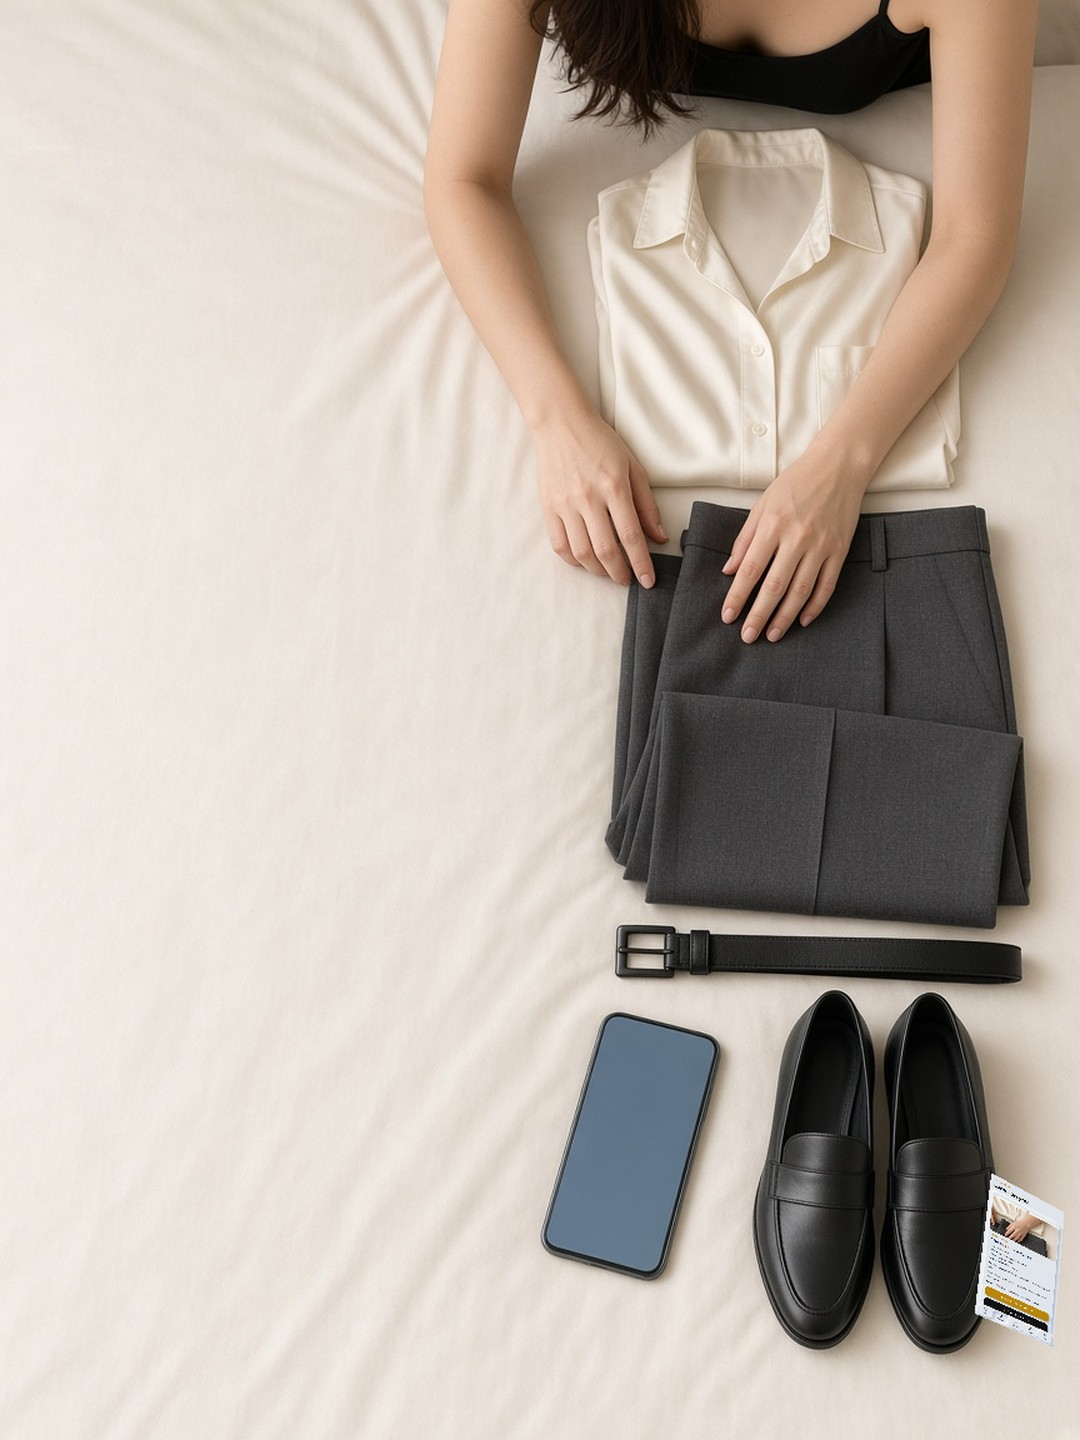
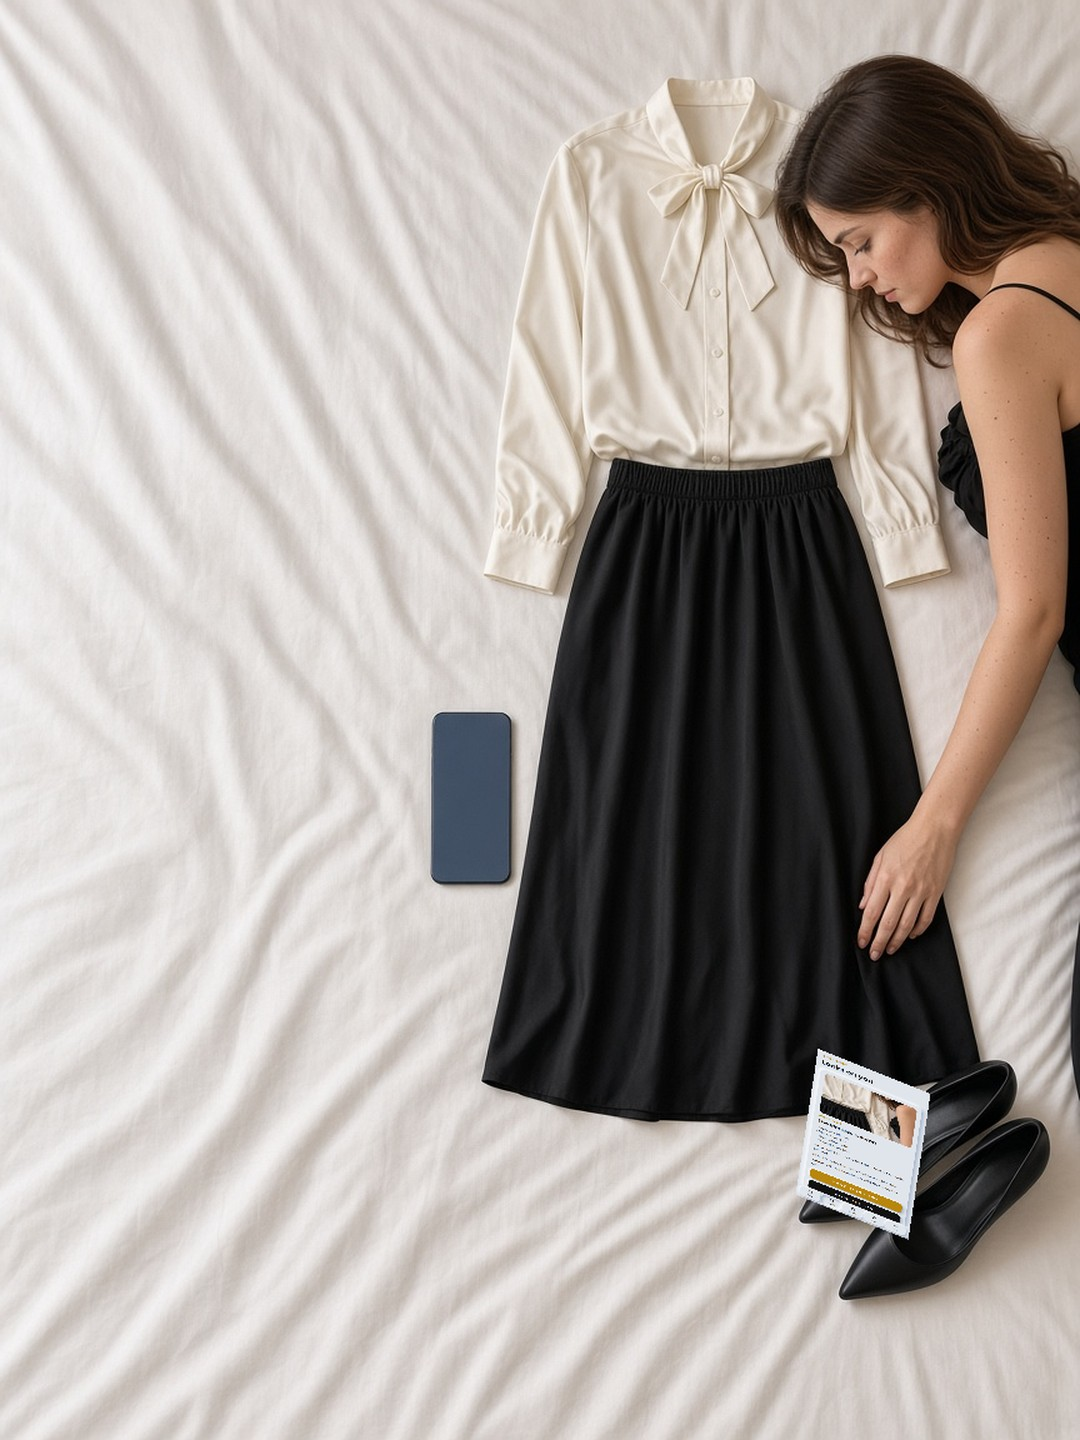
Dress the Bee card for a woman.
The bed and the Style Guide show an ivory silk blouse, a black midi skirt, and pointed heels.

diff --git a/src/routes/index.tsx b/src/routes/index.tsx
@@ -36,7 +36,7 @@ const PRODUCTS = [
     href: "/app",
     cta: "Enter Bee",
     image: beeHoldingApp,
-    alt: "A woman laying out an ivory silk shirt and charcoal trousers on a crisp sheet, the same look open in the Bee app",
+    alt: "A woman laying out an ivory silk blouse, a black midi skirt, and pointed heels, the same look open in the Bee app",
     mark: "/bee-logo-192.png",
     offers: [
       {
